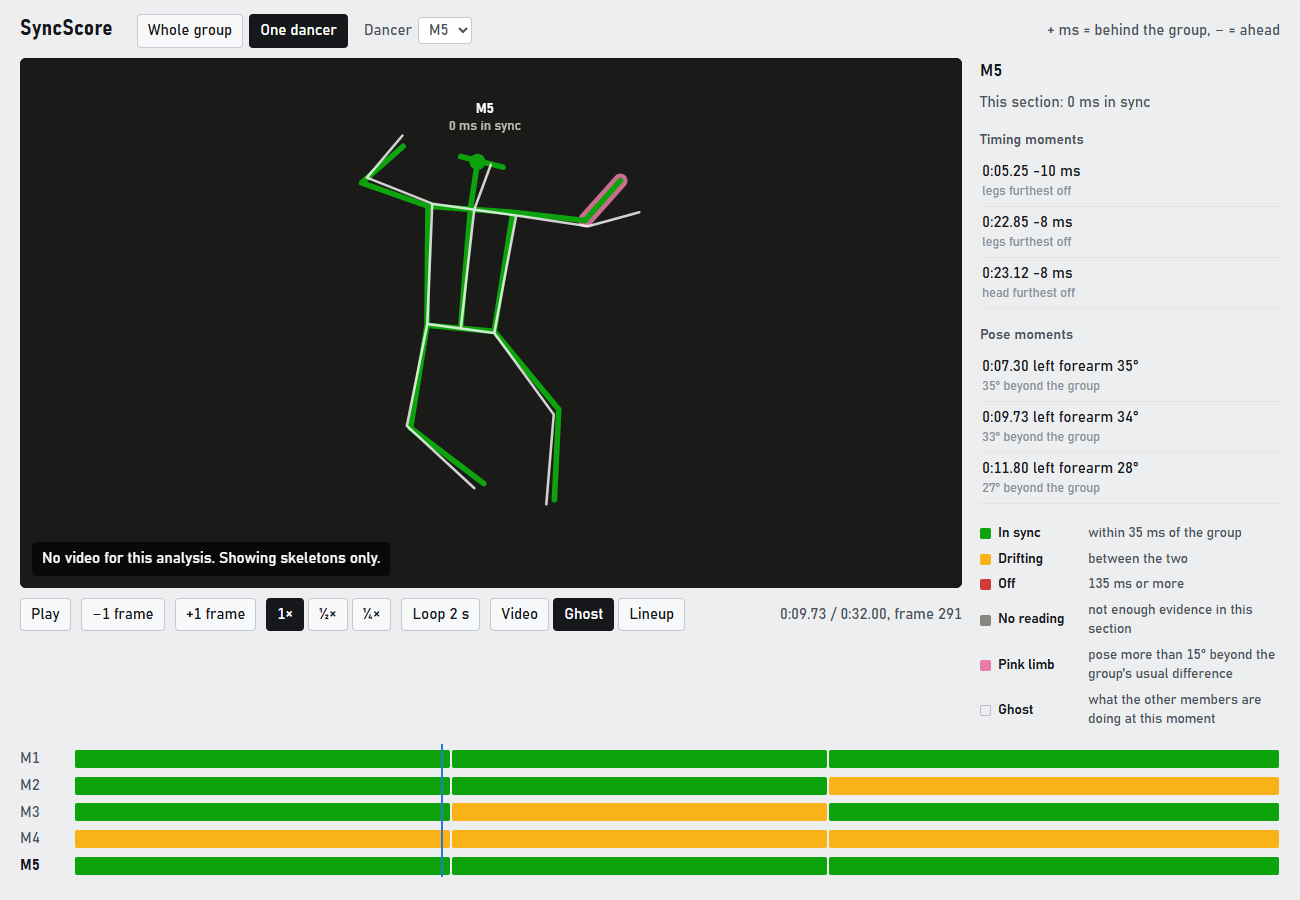
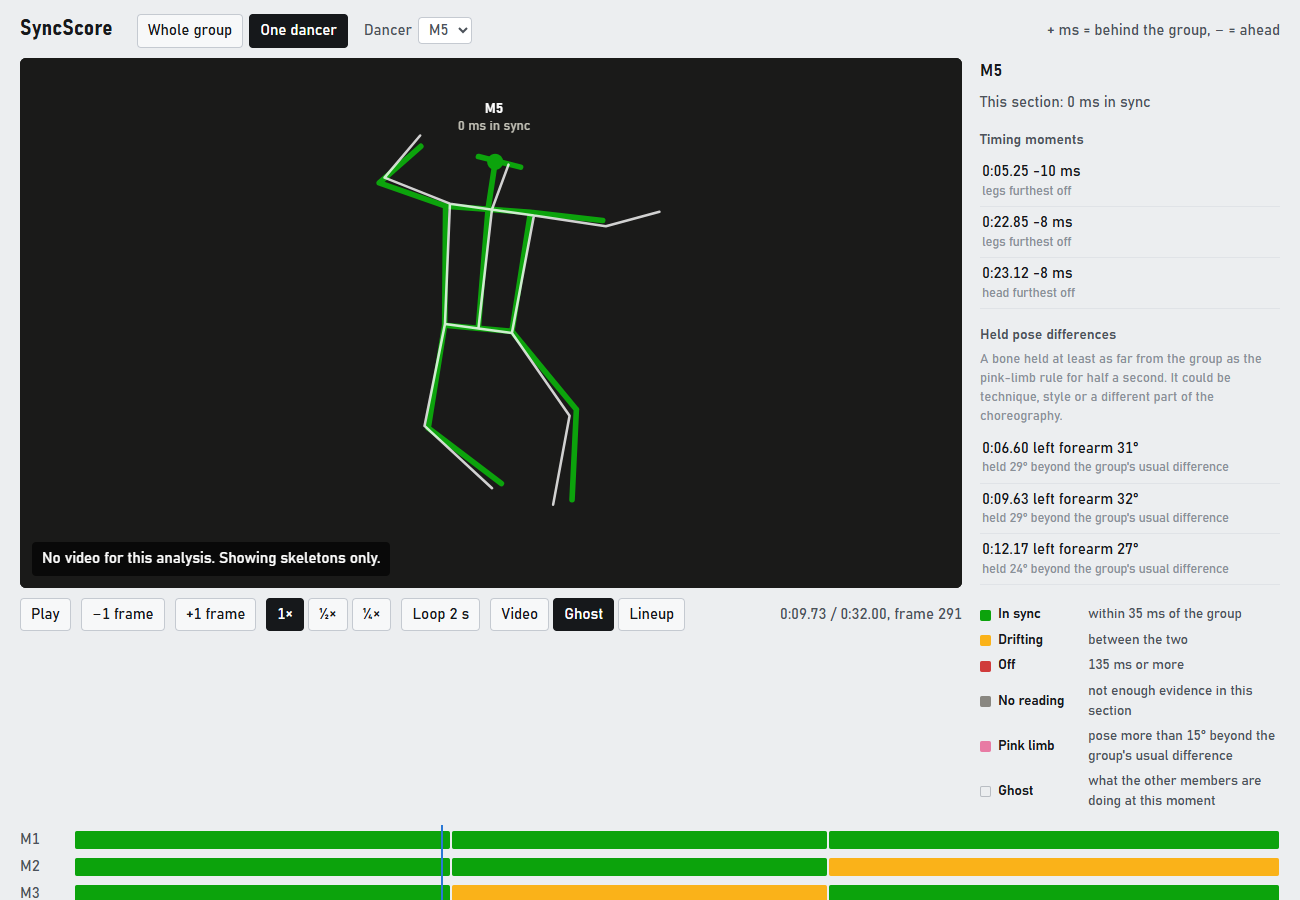
docs: Stage E after review: detected joints only, held pose differences; refreshed screenshots

Changed region(s): [[0.0, 0.3422, 0.9846, 1.0], [0.2769, 0.0933, 0.4923, 0.56]]

diff --git a/docs/walkthrough.md b/docs/walkthrough.md
@@ -501,6 +501,24 @@ report flags.
 |---|---|
 | ![M3 on the real clip](media/viewer_ghost_original.png) | ![M3 delayed](media/viewer_ghost_planted.png) |
 
+**Caught by the final review:**
+- **Guessed joints were drawn.** Smoothing fills gaps of up to 4 frames by interpolation, and the
+  analysis may use those; the page drew them too (1.5% of drawn joints on the real clip, and 339
+  frames of a whole skeleton that was mostly filled in). At quarter speed that is half a second
+  of straight-line motion that looks measured. Now only detected joints are drawn, and no ghost
+  is drawn on a filled-in pelvis.
+- **The dancer's pose list was all glitches.** Ranked by the single worst frame, every real
+  member's top three were bones turned around: left/right label swaps or facing away. Cutting
+  those at 150° let the 141-149° tier in, and at 90° the 85-90° tier: the worst single frame is
+  always an artefact. The list now ranks differences *held* for half a second (median over the
+  window), leaves out bones 90° or more away (counted, with a note to check them by eye), and is
+  called "held pose differences": technique, style or a different part, it doesn't say which.
+  On the synthetic demo the planted 25° elbow error tops it.
+- Clicking the timeline jumped to the start of a 32 s section; it now goes where you click. The
+  dancer view opened blank on a hidden member; it now frames them from the nearest frame they
+  were seen and says "not seen". The lineup stretched everyone to one height every frame, which
+  hid how low a squat was; each member now keeps their own scale.
+
 **What it can't show:** in 2D a member turned a different way from the others has a ghost that
 looks wrong even when they dance the same move (the 3D part of the plan addresses this), and the
 ghost of a member who is never seen has nothing to be drawn on.

diff --git a/README.md b/README.md
@@ -67,12 +67,15 @@ members are doing at that same moment, drawn on this member's body. A late dance
 ghost; a wrong arm shows as the gap between their arm and the ghost's.
 
 - **Whole group:** everyone at once, and a timeline of every member by section (click to jump).
-- **One dancer:** the view follows that member, with their worst timing and pose moments; click
-  one to replay it at ¼ speed in a 2-second loop.
+- **One dancer:** the view follows that member, with their worst timing moments and the pose
+  differences they held longest beyond the group; click one to replay it at ¼ speed in a 2-second
+  loop.
 - **Lineup:** everyone side by side, feet on one line, to compare a move.
 - Links open the page at a moment: `index.html?t=62.9&view=dancer&member=M3&speed=0.25`.
 
-The page reads the video from where it is and never copies it, so footage stays out of the repo.
+Only detected joints are drawn: joints the smoothing filled in for a few frames are left out, so
+nothing on screen is guessed. The page reads the video from where it is and never copies it, so
+footage stays out of the repo.
 The pictures below are skeleton-only (video switched off).
 
 ![The viewer, whole group (synthetic demo)](docs/media/viewer_group.png)
@@ -80,7 +83,7 @@ The pictures below are skeleton-only (video switched off).
 | | |
 |---|---|
 | ![M3 on the real clip](docs/media/viewer_ghost_original.png) | ![M3 delayed by 133 ms](docs/media/viewer_ghost_planted.png) |
-| *Real clip, M3 at a hit: skeleton and ghost overlap (an arm differs by style).* | *The same moment with M3's track delayed by 133 ms: the arms trail the ghost.* |
+| *Real clip, M3 at a hit: skeleton and ghost overlap (one arm differs).* | *The same moment with M3's track delayed by 133 ms: the arms trail the ghost.* |
 
 ## Validation
 
